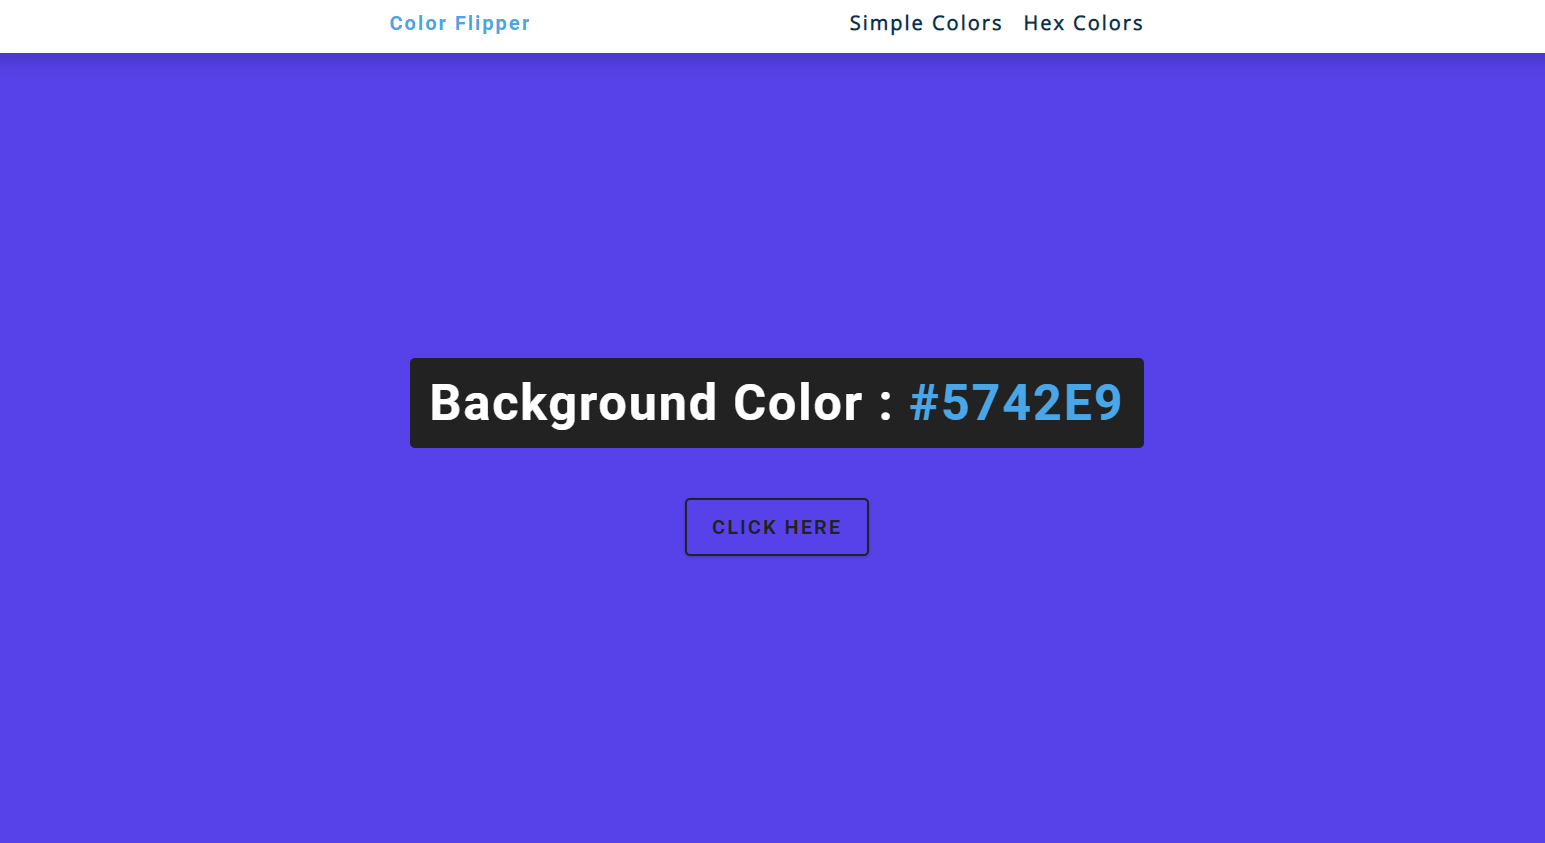
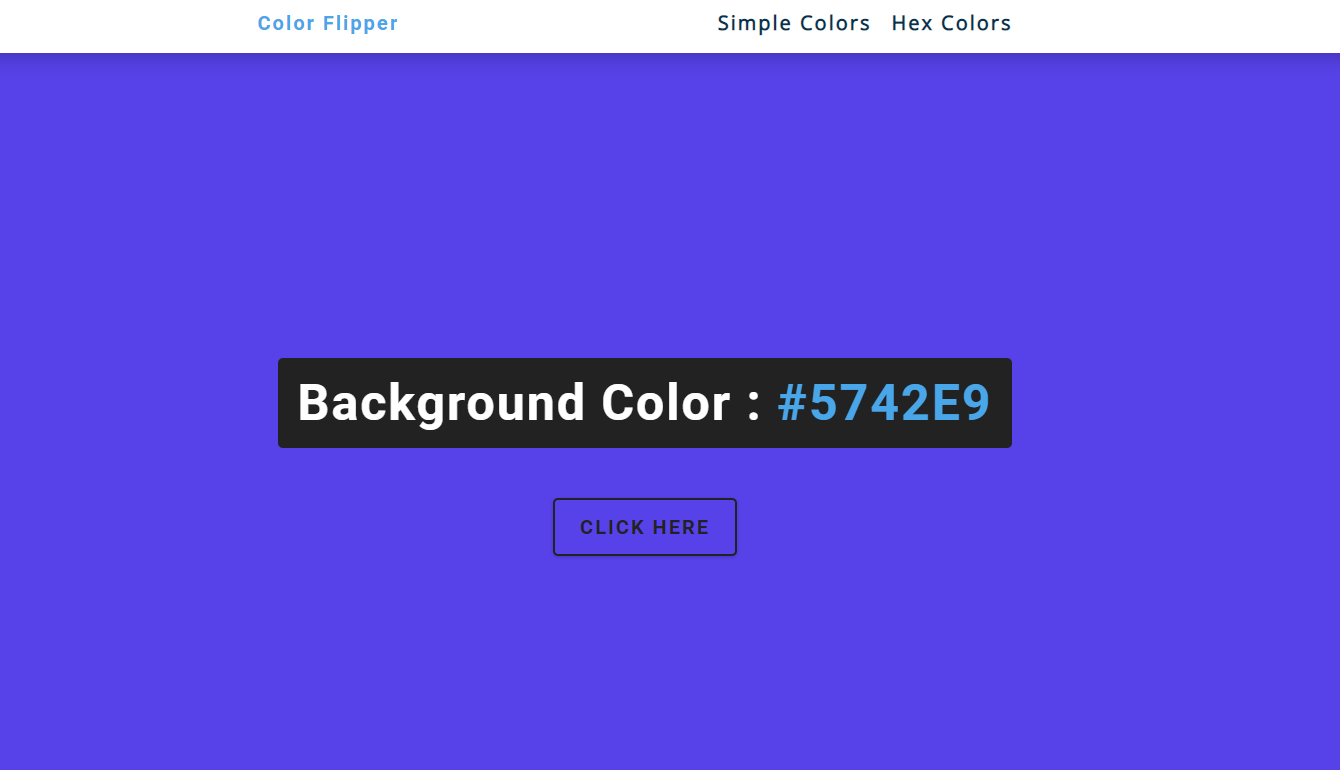
Changes and Additions
Changed image size for color flipper because it was too wide. Added alt descriptions to images for the 3 new JS projects.

Changed region(s): [[0.1836, 0.4052, 0.7649, 0.7481], [0.0, 0.0, 1.0, 0.0935]]

diff --git a/javascript-work.html b/javascript-work.html
@@ -91,7 +91,7 @@
                         </article>
 
                           <article class="projects__card">
-                            <img src="assets/img/js/taz-barks.png" alt="" class="projects__img">
+                            <img src="assets/img/js/taz-barks.png" alt="A photo of a Tan dog sticking his tongue out. This counter is for the creator to take tally as to how many times her beautiful tan dog, Taz, barks." class="projects__img">
 
                             <div class="projects__modal">
                                 <div>
@@ -105,7 +105,7 @@
                         </article>
 
                         <article class="projects__card">
-                            <img src="assets/img/js/reviews-js.png" alt="" class="projects__img">
+                            <img src="assets/img/js/reviews-js.png" alt="Cards that contain images and reviews of different individuals." class="projects__img">
 
                             <div class="projects__modal">
                                 <div>
@@ -119,7 +119,7 @@
                         </article>
 
                         <article class="projects__card">
-                            <img src="assets/img/js/color-flipper.png" alt="" class="projects__img">
+                            <img src="assets/img/js/color-flipper.png" alt="Displays different colors as well as color name and hex codes. When button is clicked, you get a random color." class="projects__img">
 
                             <div class="projects__modal">
                                 <div>
